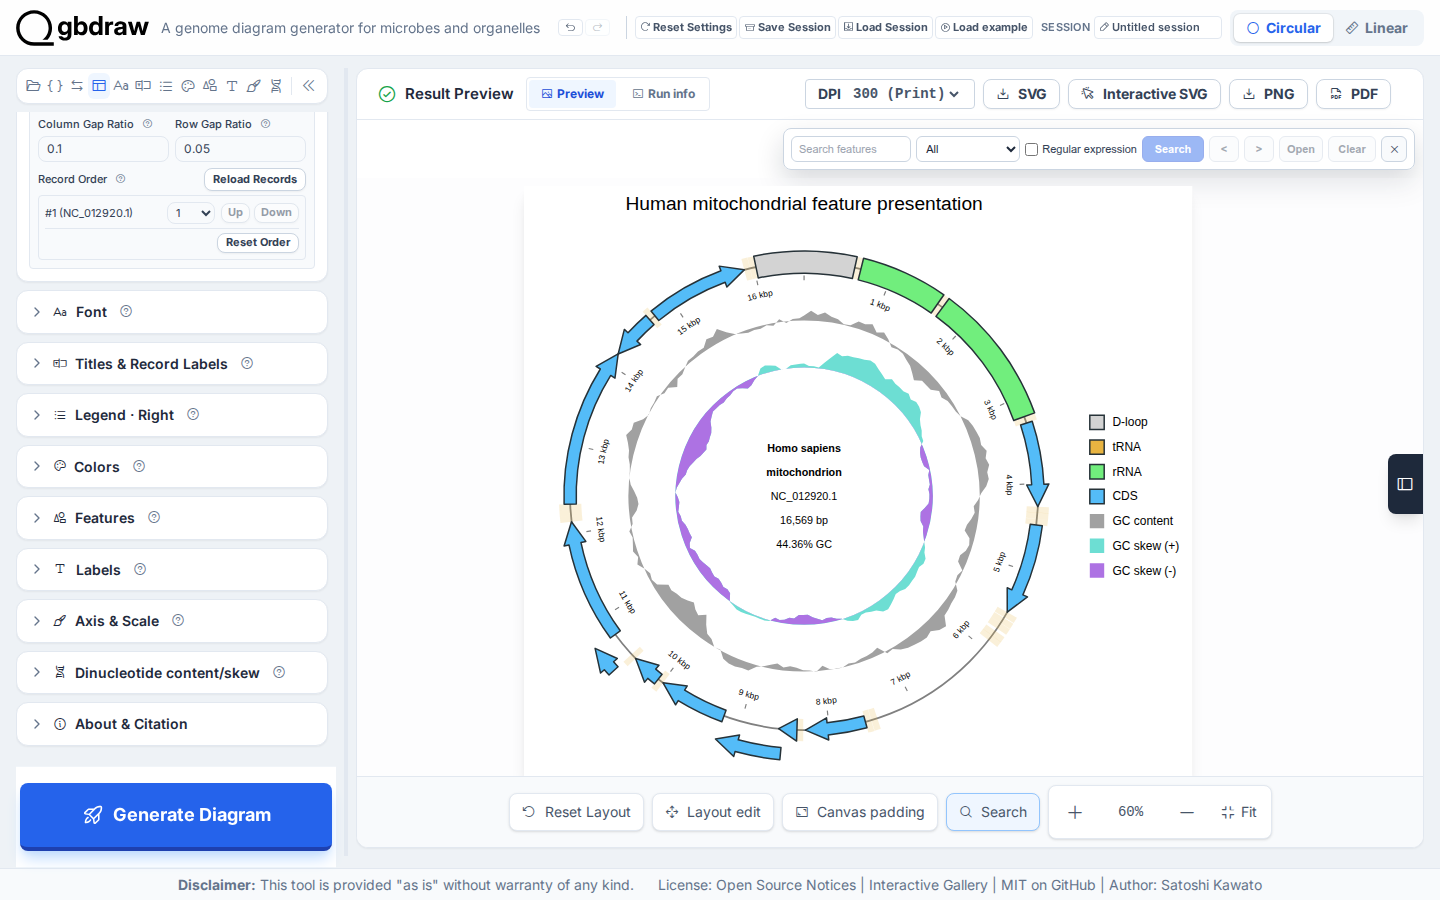
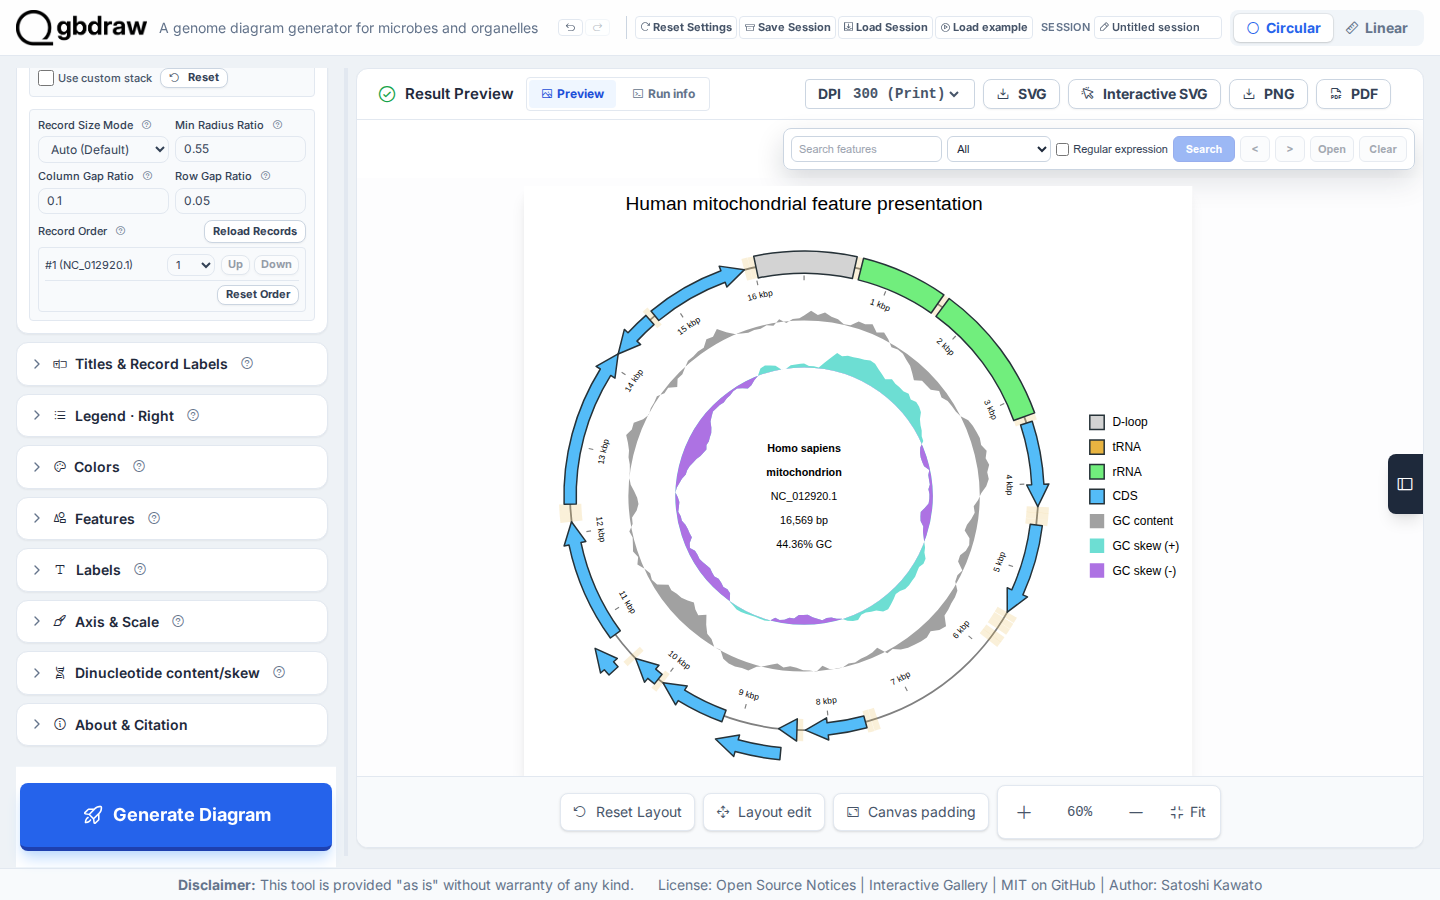
Show the whole action of a Feature Visibility rule (OV-513)
The sidebar rule row gave the Action list a quarter of its width, so the
closed list showed "Leave o" for "Leave out of protein search". Action
now has its own line under Value regex, and Record ID, Feature Type and
Qualifier share the first line in thirds. The accessible names do not
change; the tab order is Record ID, Feature Type, Qualifier, Value
regex, Action. A browser case measures the closed list at 1600x1000 and
390x844 for each action.

The name field of the selected-feature bar reads "Legend name" in its
placeholder and its accessible name, like the color rule field; the
capture flow and the Web reference use the new words.

The presentation capture flow frames all three rules for the settings
image and starts its pan after the zoom has finished. With the taller
rule rows the result image was not reproducible: three captures gave
two different pan positions. Both images are recaptured.

diff --git a/gbdraw/web/index.html b/gbdraw/web/index.html
@@ -4869,27 +4869,30 @@
                                             </div>
                                         </div>
                                         <div class="grid grid-cols-12 gap-1 px-1 text-[9px] font-semibold uppercase text-slate-500">
-                                            <span class="col-span-3">Record ID</span>
-                                            <span class="col-span-3">Feature Type</span>
-                                            <span class="col-span-3">Qualifier</span>
-                                            <span class="col-span-3">Action</span>
+                                            <span class="col-span-4">Record ID</span>
+                                            <span class="col-span-4">Feature Type</span>
+                                            <span class="col-span-4">Qualifier</span>
                                         </div>
                                         <div class="grid grid-cols-12 gap-1">
-                                            <input :value="rule.recordId" @change="setFeatureVisibilityRuleField(i, 'recordId', $event.target.value)" :aria-label="`Visibility rule ${i + 1} record ID`" placeholder="record_id" class="form-input form-input-compact col-span-3 font-mono" :disabled="!semanticMutationAvailable">
-                                            <select :value="rule.featureType" @change="setFeatureVisibilityRuleField(i, 'featureType', $event.target.value)" :aria-label="`Visibility rule ${i + 1} feature type`" class="form-input form-input-compact col-span-3" :disabled="!semanticMutationAvailable">
+                                            <input :value="rule.recordId" @change="setFeatureVisibilityRuleField(i, 'recordId', $event.target.value)" :aria-label="`Visibility rule ${i + 1} record ID`" placeholder="record_id" class="form-input form-input-compact col-span-4 font-mono" :disabled="!semanticMutationAvailable">
+                                            <select :value="rule.featureType" @change="setFeatureVisibilityRuleField(i, 'featureType', $event.target.value)" :aria-label="`Visibility rule ${i + 1} feature type`" class="form-input form-input-compact col-span-4" :disabled="!semanticMutationAvailable">
                                                 <option v-if="rule.featureType && !featureVisibilityFeatureSuggestions.includes(rule.featureType)" :value="rule.featureType">{{ rule.featureType }}</option>
                                                 <option v-for="value in featureVisibilityFeatureSuggestions" :key="`fv-type-${value}`" :value="value">{{ value }}</option>
                                             </select>
-                                            <input :value="rule.qualifier" @change="setFeatureVisibilityRuleField(i, 'qualifier', $event.target.value)" :aria-label="`Visibility rule ${i + 1} qualifier`" list="feature-visibility-qualifier-options" placeholder="qualifier" class="form-input form-input-compact col-span-3" :disabled="!semanticMutationAvailable">
-                                            <select :value="rule.action" @change="setFeatureVisibilityRuleField(i, 'action', $event.target.value)" :aria-label="`Visibility rule ${i + 1} action`" class="form-input form-input-compact col-span-3" :disabled="!semanticMutationAvailable">
-                                                <option value="show">Show</option>
-                                                <option value="off">Off</option>
-                                                <option value="exclude_matching">Leave out of protein search</option>
-                                            </select>
+                                            <input :value="rule.qualifier" @change="setFeatureVisibilityRuleField(i, 'qualifier', $event.target.value)" :aria-label="`Visibility rule ${i + 1} qualifier`" list="feature-visibility-qualifier-options" placeholder="qualifier" class="form-input form-input-compact col-span-4" :disabled="!semanticMutationAvailable">
                                         </div>
                                         <div>
                                             <label class="block px-1 text-[9px] font-semibold uppercase text-slate-500">Value regex</label>
                                             <input :value="rule.value" @change="setFeatureVisibilityRuleField(i, 'value', $event.target.value)" :aria-label="`Visibility rule ${i + 1} value regex`" placeholder="value regex" class="form-input form-input-compact w-full font-mono" :disabled="!semanticMutationAvailable">
+                                        </div>
+                                        <!-- The action has its own line: its longest text does not fit a quarter of the row. -->
+                                        <div>
+                                            <span class="block px-1 text-[9px] font-semibold uppercase text-slate-500">Action</span>
+                                            <select :value="rule.action" @change="setFeatureVisibilityRuleField(i, 'action', $event.target.value)" :aria-label="`Visibility rule ${i + 1} action`" class="form-input form-input-compact w-full" :disabled="!semanticMutationAvailable">
+                                                <option value="show">Show</option>
+                                                <option value="off">Off</option>
+                                                <option value="exclude_matching">Leave out of protein search</option>
+                                            </select>
                                         </div>
                                     </div>
                                     <div v-if="featureVisibilityManualRules.length === 0" class="ui-hint italic text-center py-2">No manual visibility rules</div>
@@ -5940,8 +5943,8 @@
                                        v-model="selectedFeatureBulkCaption"
                                        data-history-ignore
                                        class="min-w-0 flex-1 border border-slate-200 rounded px-2 py-1 text-xs"
-                                       placeholder="Legend caption"
-                                       aria-label="Selected feature legend caption">
+                                       placeholder="Legend name"
+                                       aria-label="Selected feature legend name">
                                 <button type="button"
                                         class="btn btn-primary btn-sm shrink-0"
                                         data-history-managed

diff --git a/tests/web/sidebar-inputs.playwright.spec.js b/tests/web/sidebar-inputs.playwright.spec.js
@@ -63,6 +63,38 @@ test('OV-373: annotation rows name their record before Inspect', async ({ page }
   await expect(panel).not.toContainText('unavailable');
 });
 
+// OV-513: the closed Action select of a Feature Visibility rule shows the
+// whole text of every action, at the default sidebar width and at phone width.
+// The width a select needs is the width of a copy that holds only that option.
+for (const viewport of [{ width: 1600, height: 1000 }, { width: 390, height: 844 }]) {
+  test(`OV-513 at ${viewport.width}x${viewport.height} a Feature Visibility rule shows its whole action`, async ({ page }) => {
+    test.setTimeout(240000);
+    await page.setViewportSize(viewport);
+    await openApp(page);
+    const card = page.locator('summary[aria-label="Features"]');
+    await card.scrollIntoViewIfNeeded();
+    await card.press('Enter');
+    await page.getByRole('button', { name: 'Add feature visibility rule', exact: true }).click();
+    const action = page.getByLabel('Visibility rule 1 action', { exact: true });
+    await action.scrollIntoViewIfNeeded();
+    const missingWidth = () => action.evaluate((select) => {
+      const copy = /** @type {HTMLSelectElement} */ (select.cloneNode(false));
+      copy.removeAttribute('aria-label');
+      copy.append(select.selectedOptions[0].cloneNode(true));
+      copy.style.cssText = 'position: absolute; visibility: hidden; width: auto; min-width: 0; max-width: none;';
+      select.after(copy);
+      const needed = copy.getBoundingClientRect().width;
+      copy.remove();
+      return Math.max(0, Math.ceil(needed - select.getBoundingClientRect().width));
+    });
+    for (const [value, text] of [['show', 'Show'], ['off', 'Off'], ['exclude_matching', 'Leave out of protein search']]) {
+      await action.selectOption(value);
+      await expect(action.locator('option:checked')).toHaveText(text);
+      expect(await missingWidth(), `px missing to show "${text}"`).toBe(0);
+    }
+  });
+}
+
 // A default color edited under "More colors" stays in that grid and keeps
 // focus while it is edited; the grouping does not follow each edit.
 test('a color edited under More colors stays there and keeps focus', async ({ page }) => {

diff --git a/docs/capture/flows/how_to/presentation.py b/docs/capture/flows/how_to/presentation.py
@@ -941,14 +941,23 @@ def capture_gui_feature_presentation(
         final_report = generate_and_inspect(
             page, _inspect_presentation_svg, _assert_feature_presentation_svg
         )
+        # The last rule's Action at the foot of the sidebar keeps every rule
+        # of the list in the frame.
         page.get_by_label(
-            "Visibility rule 1 record ID", exact=True
-        ).scroll_into_view_if_needed()
+            f"Visibility rule {len(EXPECTED_VISIBILITY_RULES)} action", exact=True
+        ).evaluate("(element) => element.scrollIntoView({ block: 'end' })")
+        expect(
+            page.get_by_label("Visibility rule 1 record ID", exact=True)
+        ).to_be_in_viewport(ratio=1)
         screenshot_bytes["presentation-settings.png"] = capture_screenshot(
             page, output_paths["presentation-settings.png"], "Circular"
         )
         toggle_disclosure(features_panel)
         _fit_finished_circular_preview(page)
+        # The pan starts after the zoom has finished. A drag that starts while
+        # the zoom still runs moves the canvas in some captures and not in
+        # others, so the image was not reproducible.
+        _wait_for_preview_transform(page)
         _pan_preview_left(page, 0.06)
         _wait_for_preview_transform(page)
         screenshot_bytes["presentation-result.png"] = capture_screenshot(

diff --git a/docs/capture/flows/how_to/interactive_sessions.py b/docs/capture/flows/how_to/interactive_sessions.py
@@ -414,7 +414,7 @@ def _edit_selected_features(page: Page, feature_ids: tuple[str, ...]) -> None:
     fill.fill(EDIT_FILL)
     expect(fill).to_have_value(EDIT_FILL)
     caption = page.get_by_role(
-        "textbox", name="Selected feature legend caption", exact=True
+        "textbox", name="Selected feature legend name", exact=True
     )
     caption.fill(EDIT_LEGEND)
     page.get_by_role(

diff --git a/CHANGELOG.md b/CHANGELOG.md
@@ -250,10 +250,12 @@ write-up of a release.
     and neither a record turned off nor one that is not selected. They read
     **Auto (by genome size)** when separate diagrams take different sizes, or
     when the one record is cropped to a region (OV-494).
-- Web app sidebar: the Feature Visibility rule action **Exclude from matching**
-  is now **Leave out of protein search**, and the color rule field **Legend
-  caption** is now **Legend name**, the words the feature popup uses. Saved
-  Sessions and rule files are unchanged.
+- Web app: the Feature Visibility rule action **Exclude from matching** is now
+  **Leave out of protein search**, and the field **Legend caption** of a color
+  rule and of the selected-feature bar is now **Legend name**, the words the
+  feature popup uses. Saved Sessions and rule files are unchanged. A Feature
+  Visibility rule shows **Action** on its own line under **Value regex**, so
+  the closed list shows the whole action (OV-513).
 - Web Comparison card (Linear): **Settings** lists the mode, the result filters
   and the appearance first, then **Search limits** and **Performance** (formerly
   **Runtime and reproducibility**). **Selected pairs** shows each pair as one row

diff --git a/docs/REFERENCE/web-app.md b/docs/REFERENCE/web-app.md
@@ -1117,7 +1117,7 @@ edit** on, a press on these items drags them instead. The comparison legend
 opens no popup. Both popups open beside the clicked item and stay below the
 app header, as the feature popup does.
 
-Ctrl-click selects features for bulk color, legend-caption, visibility, and
+Ctrl-click selects features for bulk color, legend name, visibility, and
 stroke edits. Use the visible **Apply** action to make an edit part of the
 editor state. Renaming a legend entry, with or without features, to the name of another
 entry of a different color or feature type, or of a deleted entry, opens the
